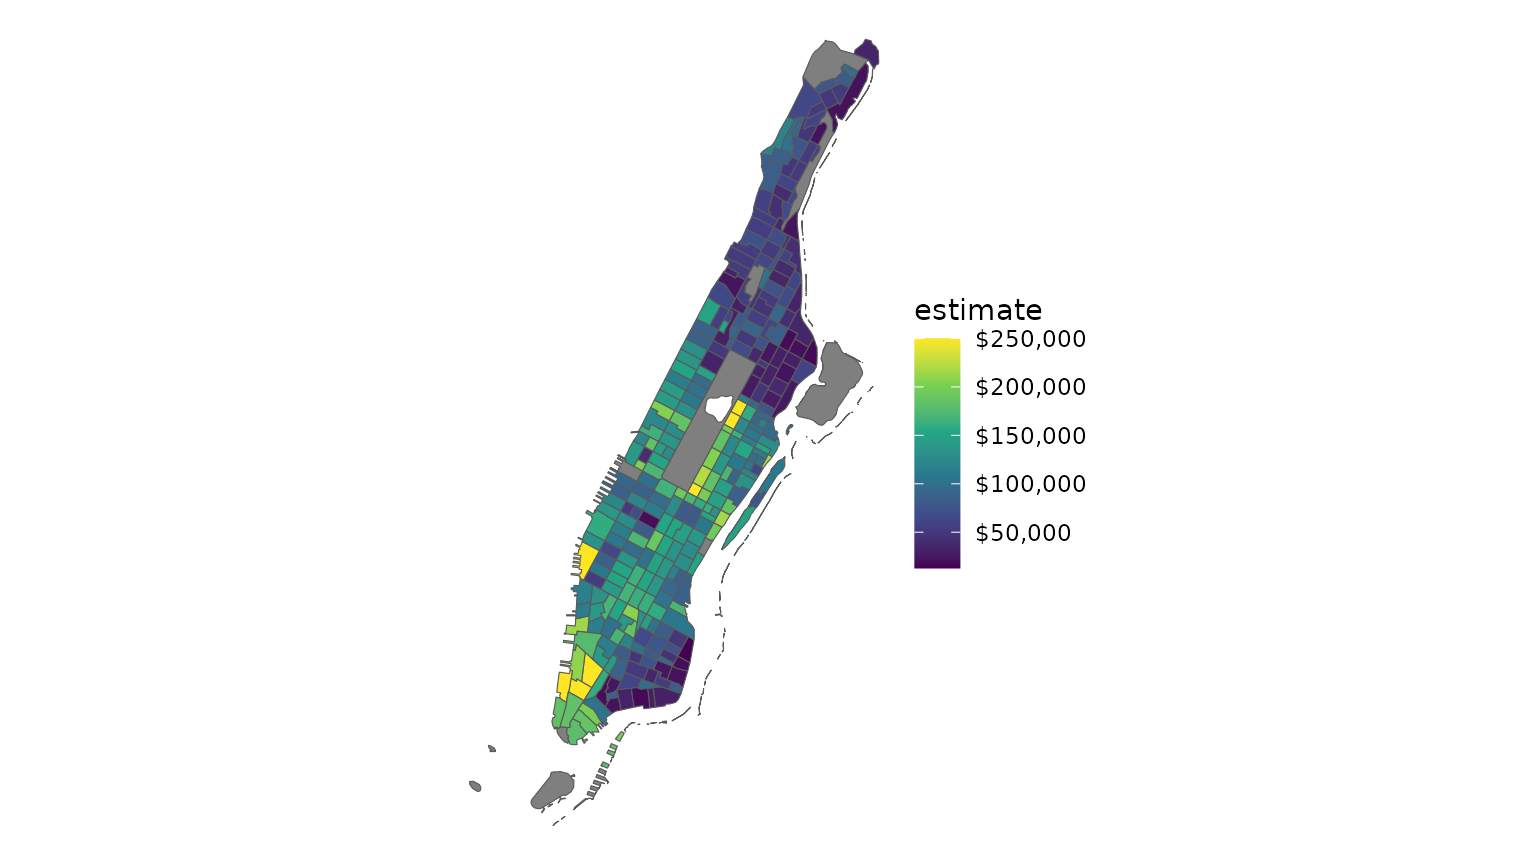
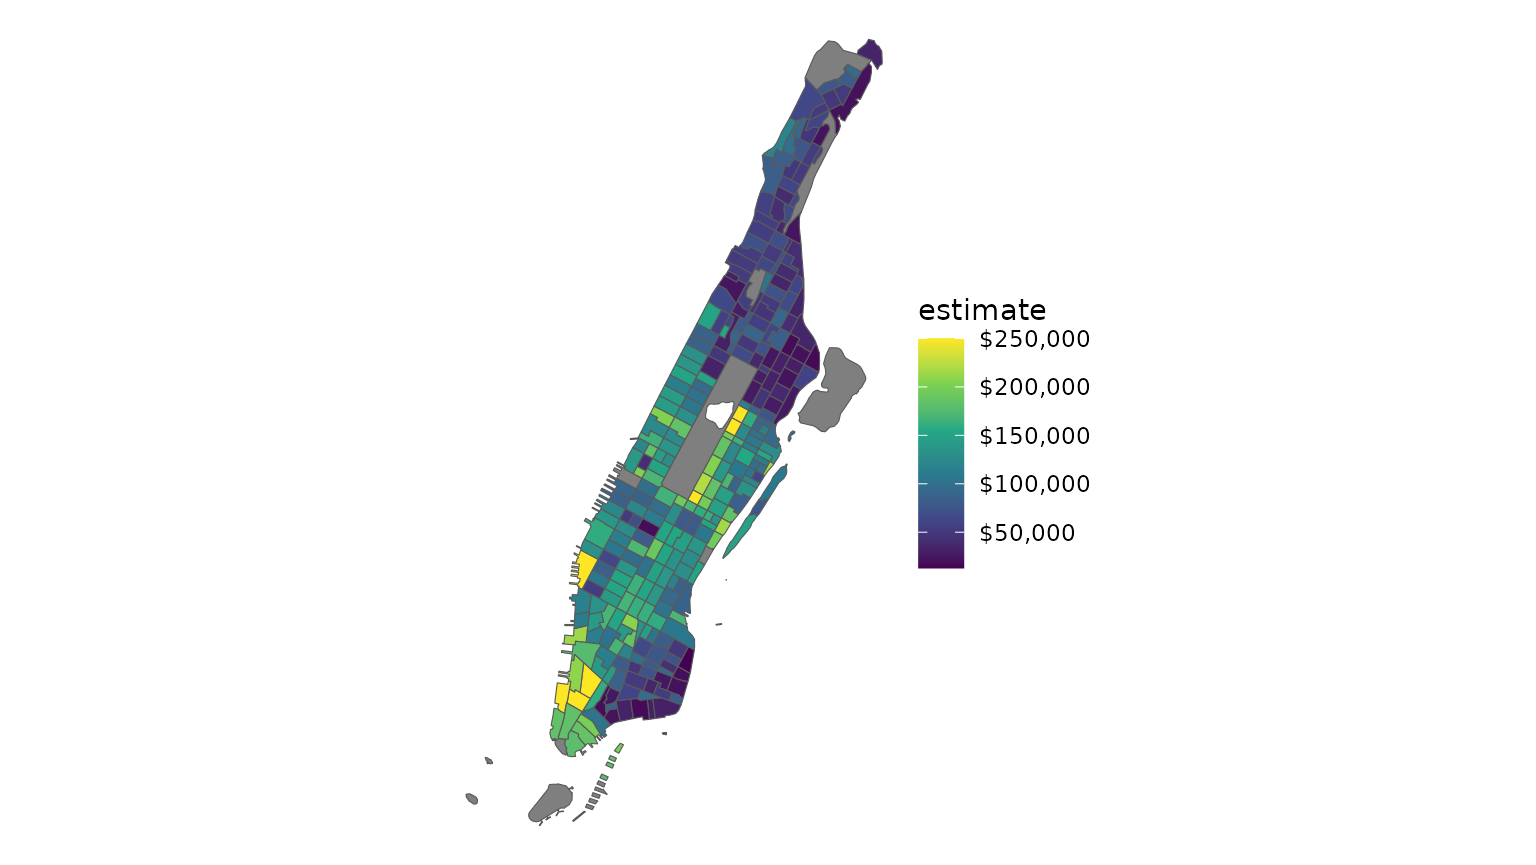
push v1.3 to GitHub

Changed region(s): [[0.3438, 0.0312, 0.5938, 0.9676], [0.5938, 0.3434, 0.7188, 0.6555], [0.2812, 0.9052, 0.3125, 0.9364]]

diff --git a/docs/articles/pums-data.html b/docs/articles/pums-data.html
@@ -249,11 +249,11 @@ get <code>PUMA</code>, <code>SEX</code>, <code>AGEP</code>, and
 <pre><code><span class="co">## <span style="color: #949494;"># A tibble: 6,436 × 9</span></span>
 <span class="co">##   SERIALNO      SPORDER  WGTP PWGTP  AGEP PUMA  ST    SCHL  SEX  </span>
 <span class="co">##   <span style="color: #949494; font-style: italic;">&lt;chr&gt;</span>           <span style="color: #949494; font-style: italic;">&lt;dbl&gt;</span> <span style="color: #949494; font-style: italic;">&lt;dbl&gt;</span> <span style="color: #949494; font-style: italic;">&lt;dbl&gt;</span> <span style="color: #949494; font-style: italic;">&lt;dbl&gt;</span> <span style="color: #949494; font-style: italic;">&lt;chr&gt;</span> <span style="color: #949494; font-style: italic;">&lt;chr&gt;</span> <span style="color: #949494; font-style: italic;">&lt;chr&gt;</span> <span style="color: #949494; font-style: italic;">&lt;chr&gt;</span></span>
-<span class="co">## <span style="color: #BCBCBC;">1</span> 2018GQ0002083       1     0    59    20 00100 50    19    2    </span>
-<span class="co">## <span style="color: #BCBCBC;">2</span> 2018GQ0002131       1     0     2    51 00400 50    16    1    </span>
-<span class="co">## <span style="color: #BCBCBC;">3</span> 2018GQ0002587       1     0    52    18 00400 50    16    1    </span>
-<span class="co">## <span style="color: #BCBCBC;">4</span> 2018GQ0003751       1     0    34    19 00100 50    19    2    </span>
-<span class="co">## <span style="color: #BCBCBC;">5</span> 2018GQ0003853       1     0   129    20 00400 50    19    1    </span>
+<span class="co">## <span style="color: #BCBCBC;">1</span> 2018GQ0001230       1     0     3    26 00300 50    20    1    </span>
+<span class="co">## <span style="color: #BCBCBC;">2</span> 2018GQ0002135       1     0    64    18 00100 50    19    2    </span>
+<span class="co">## <span style="color: #BCBCBC;">3</span> 2018GQ0002999       1     0    62    20 00400 50    19    2    </span>
+<span class="co">## <span style="color: #BCBCBC;">4</span> 2018GQ0004077       1     0    16    94 00200 50    21    2    </span>
+<span class="co">## <span style="color: #BCBCBC;">5</span> 2018GQ0006486       1     0    26    20 00400 50    19    1    </span>
 <span class="co">## <span style="color: #949494;"># … with 6,431 more rows</span></span></code></pre>
 <p>We get 6436 rows and 9 columns. In addition to the variables we
 specified, <code><a href="../reference/get_pums.html">get_pums()</a></code> also always returns
@@ -281,11 +281,11 @@ additional columns with the values of these variables recoded.</p>
 <pre><code><span class="co">## <span style="color: #949494;"># A tibble: 6,436 × 12</span></span>
 <span class="co">##   SERIALNO      SPORDER  WGTP PWGTP  AGEP PUMA  ST    SCHL  SEX   ST_label   SCHL_label           SEX_l…¹</span>
 <span class="co">##   <span style="color: #949494; font-style: italic;">&lt;chr&gt;</span>           <span style="color: #949494; font-style: italic;">&lt;dbl&gt;</span> <span style="color: #949494; font-style: italic;">&lt;dbl&gt;</span> <span style="color: #949494; font-style: italic;">&lt;dbl&gt;</span> <span style="color: #949494; font-style: italic;">&lt;dbl&gt;</span> <span style="color: #949494; font-style: italic;">&lt;chr&gt;</span> <span style="color: #949494; font-style: italic;">&lt;chr&gt;</span> <span style="color: #949494; font-style: italic;">&lt;chr&gt;</span> <span style="color: #949494; font-style: italic;">&lt;chr&gt;</span> <span style="color: #949494; font-style: italic;">&lt;ord&gt;</span>      <span style="color: #949494; font-style: italic;">&lt;ord&gt;</span>                <span style="color: #949494; font-style: italic;">&lt;ord&gt;</span>  </span>
-<span class="co">## <span style="color: #BCBCBC;">1</span> 2018GQ0001230       1     0     3    26 00300 50    20    1     Vermont/VT Associate's degree   Male   </span>
-<span class="co">## <span style="color: #BCBCBC;">2</span> 2018GQ0002135       1     0    64    18 00100 50    19    2     Vermont/VT 1 or more years of … Female </span>
-<span class="co">## <span style="color: #BCBCBC;">3</span> 2018GQ0002999       1     0    62    20 00400 50    19    2     Vermont/VT 1 or more years of … Female </span>
-<span class="co">## <span style="color: #BCBCBC;">4</span> 2018GQ0004077       1     0    16    94 00200 50    21    2     Vermont/VT Bachelor's degree    Female </span>
-<span class="co">## <span style="color: #BCBCBC;">5</span> 2018GQ0006486       1     0    26    20 00400 50    19    1     Vermont/VT 1 or more years of … Male   </span>
+<span class="co">## <span style="color: #BCBCBC;">1</span> 2018GQ0000859       1     0    61    19 00200 50    19    1     Vermont/VT 1 or more years of … Male   </span>
+<span class="co">## <span style="color: #BCBCBC;">2</span> 2018GQ0001119       1     0    67    80 00200 50    11    2     Vermont/VT Grade 8              Female </span>
+<span class="co">## <span style="color: #BCBCBC;">3</span> 2018GQ0001888       1     0   177    82 00400 50    16    2     Vermont/VT Regular high school… Female </span>
+<span class="co">## <span style="color: #BCBCBC;">4</span> 2018GQ0002438       1     0    17    17 00100 50    16    2     Vermont/VT Regular high school… Female </span>
+<span class="co">## <span style="color: #BCBCBC;">5</span> 2018GQ0003293       1     0    68    20 00400 50    19    2     Vermont/VT 1 or more years of … Female </span>
 <span class="co">## <span style="color: #949494;"># … with 6,431 more rows, and abbreviated variable name ¹SEX_label</span></span></code></pre>
 </div>
 <div class="section level2">

diff --git a/docs/articles/spatial-data.html b/docs/articles/spatial-data.html
@@ -304,7 +304,7 @@ performance.</p>
   cb <span class="op">=</span> <span class="cn">FALSE</span>
 <span class="op">)</span> <span class="op"><a href="https://rdrr.io/pkg/tigris/man/tigris-exports.html" class="external-link">%&gt;%</a></span>
   <span class="fu"><a href="https://r-spatial.github.io/sf/reference/st_transform.html" class="external-link">st_transform</a></span><span class="op">(</span><span class="fl">26918</span><span class="op">)</span> <span class="op"><a href="https://rdrr.io/pkg/tigris/man/tigris-exports.html" class="external-link">%&gt;%</a></span>
-  <span class="fu"><a href="https://rdrr.io/pkg/tigris/man/erase_water.html" class="external-link">erase_water</a></span><span class="op">(</span>area_threshold <span class="op">=</span> <span class="fl">0.75</span>, year <span class="op">=</span> <span class="fl">2020</span><span class="op">)</span>
+  <span class="fu"><a href="https://rdrr.io/pkg/tigris/man/erase_water.html" class="external-link">erase_water</a></span><span class="op">(</span>year <span class="op">=</span> <span class="fl">2020</span><span class="op">)</span>
 
 <span class="fu"><a href="https://ggplot2.tidyverse.org/reference/ggplot.html" class="external-link">ggplot</a></span><span class="op">(</span><span class="va">ny_erase</span>, <span class="fu"><a href="https://ggplot2.tidyverse.org/reference/aes.html" class="external-link">aes</a></span><span class="op">(</span>fill <span class="op">=</span> <span class="va">estimate</span><span class="op">)</span><span class="op">)</span> <span class="op">+</span> 
   <span class="fu"><a href="https://ggplot2.tidyverse.org/reference/ggsf.html" class="external-link">geom_sf</a></span><span class="op">(</span><span class="op">)</span> <span class="op">+</span> 
@@ -312,7 +312,10 @@ performance.</p>
   <span class="fu"><a href="https://ggplot2.tidyverse.org/reference/scale_viridis.html" class="external-link">scale_fill_viridis_c</a></span><span class="op">(</span>labels <span class="op">=</span> <span class="fu">scales</span><span class="fu">::</span><span class="va"><a href="https://scales.r-lib.org/reference/dollar_format.html" class="external-link">dollar</a></span><span class="op">)</span></code></pre></div>
 <p><img src="spatial-data_files/figure-html/unnamed-chunk-6-1.png" width="768"></p>
 <p>The map appears as before, but instead the polygons now hug the
-shoreline of Manhattan.</p>
+shoreline of Manhattan. Setting the same <code>year</code> in
+<code><a href="https://rdrr.io/pkg/tigris/man/erase_water.html" class="external-link">erase_water()</a></code> as your input data is recommended to avoid
+<em>sliver polygons</em>, which are small polygons that can appear as a
+result of misaligned overlay operations.</p>
 </div>
 <div class="section level2">
 <h2 id="writing-to-shapefiles">Writing to shapefiles<a class="anchor" aria-label="anchor" href="#writing-to-shapefiles"></a>
